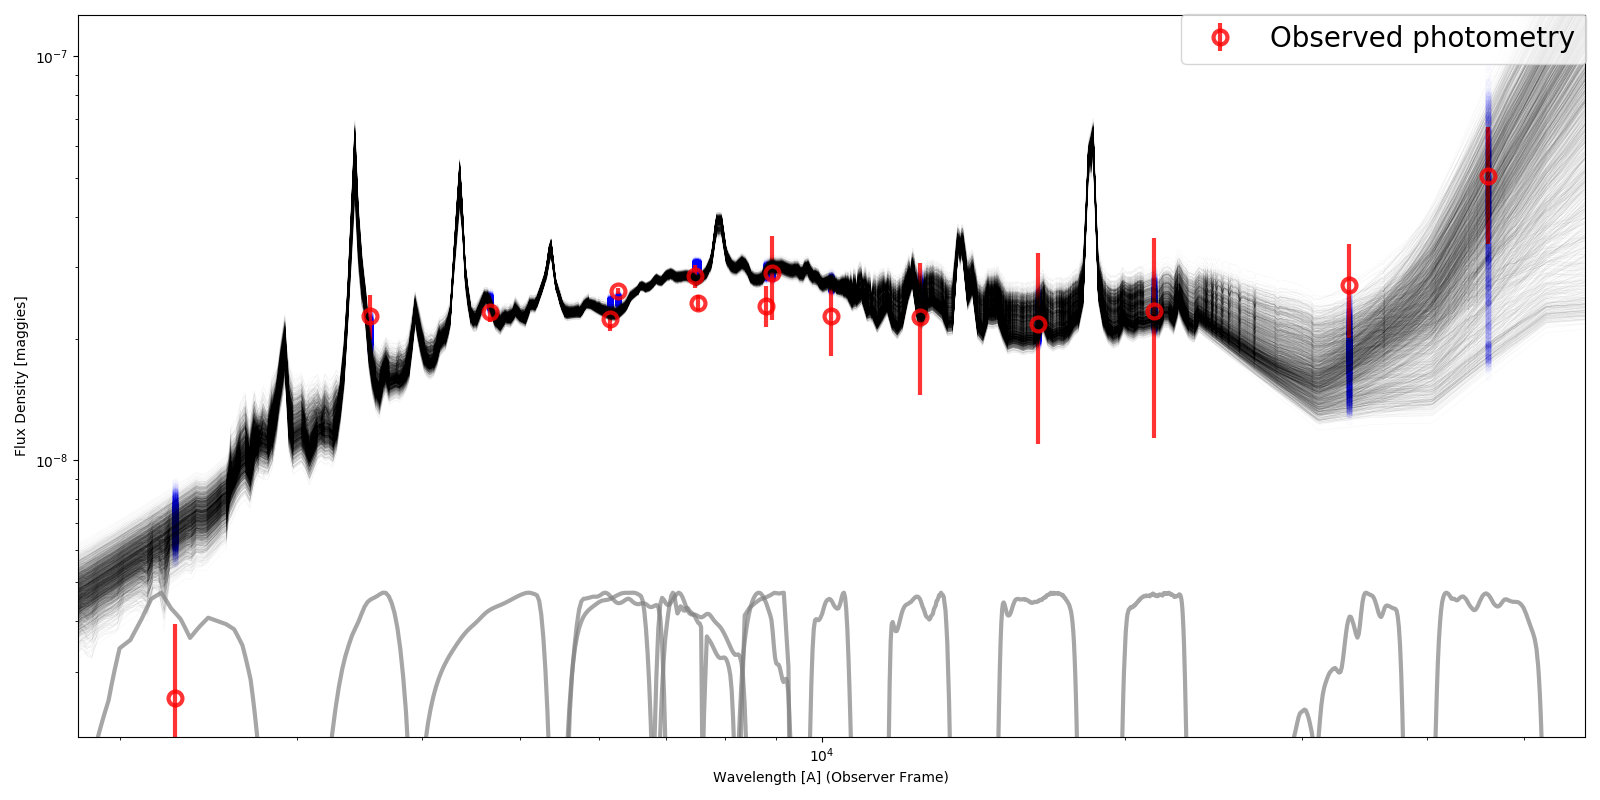
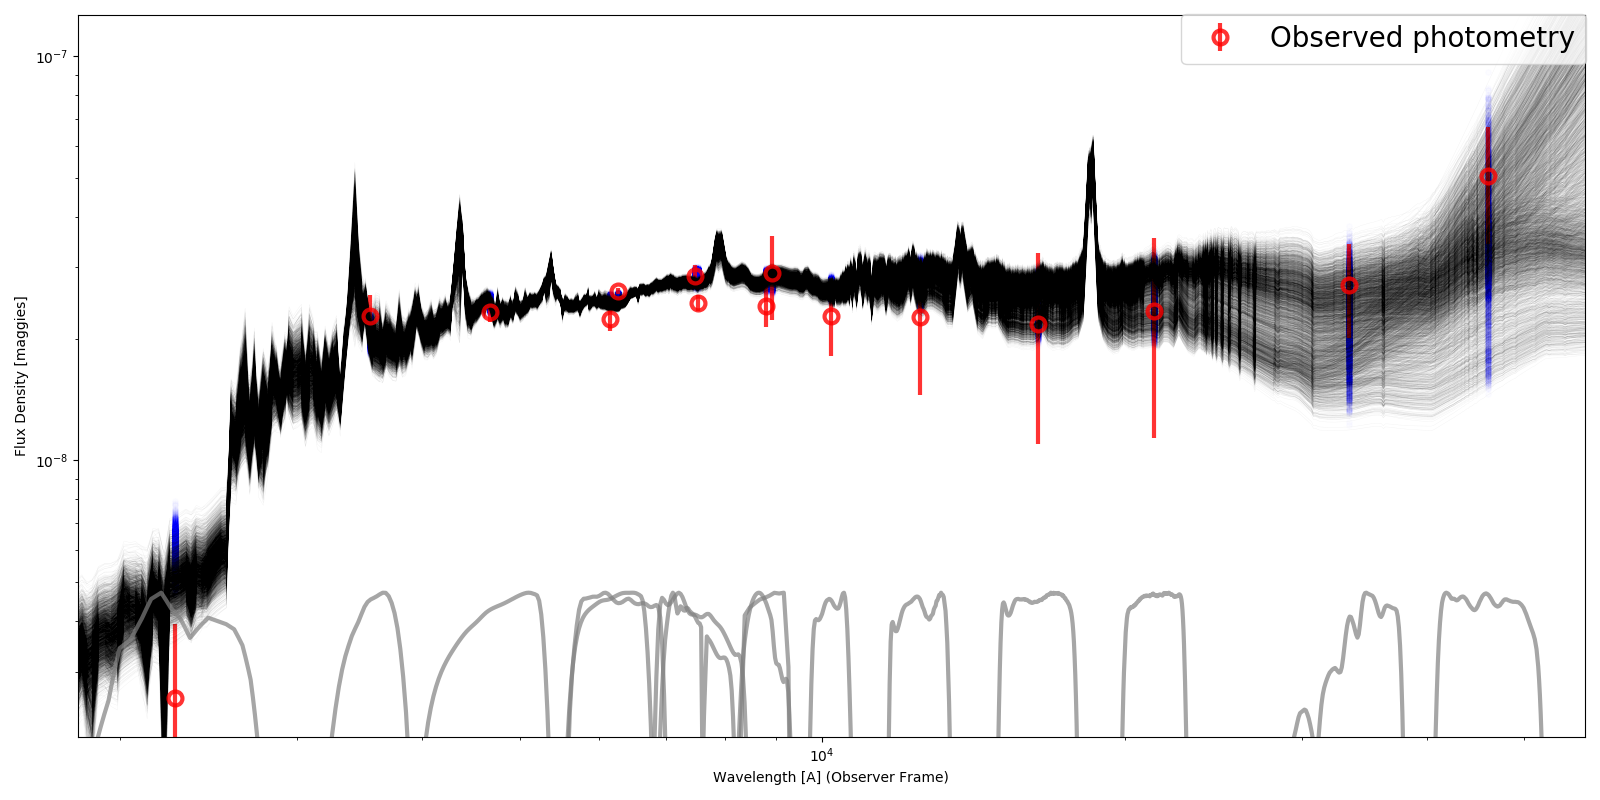
Add further results

Changed region(s): [[0.0312, 0.0625, 1.0, 0.9062]]

diff --git a/agnfinder/prospector/main.py b/agnfinder/prospector/main.py
@@ -227,7 +227,7 @@ if __name__ == '__main__':
 
     timestamp = '{:.0f}'.format(time.time())
     # TODO convert to command line args?
-    name = 'fixed_redshift_free_agn_extinction_obscuration_with_qso_{}_{}_dynesty'.format(args.index, timestamp)
+    name = 'fixed_redshift_free_agn_extinction_obscuration_with_passive_{}_{}_dynesty'.format(args.index, timestamp)
     output_dir = 'results'
     find_ml_estimate = False
     find_mcmc_posterior = False
@@ -238,7 +238,7 @@ if __name__ == '__main__':
     agn_eb_v = True
     obscured_torus = True
     
-    galaxy_class = 'qso' # None for any, or 'agn', 'passive', 'starforming', 'qso' for most likely galaxies of that class
+    galaxy_class = 'passive' # None for any, or 'agn', 'passive', 'starforming', 'qso' for most likely galaxies of that class
 
     while len(logging.root.handlers) > 0:
         logging.root.removeHandler(logging.root.handlers[-1])
